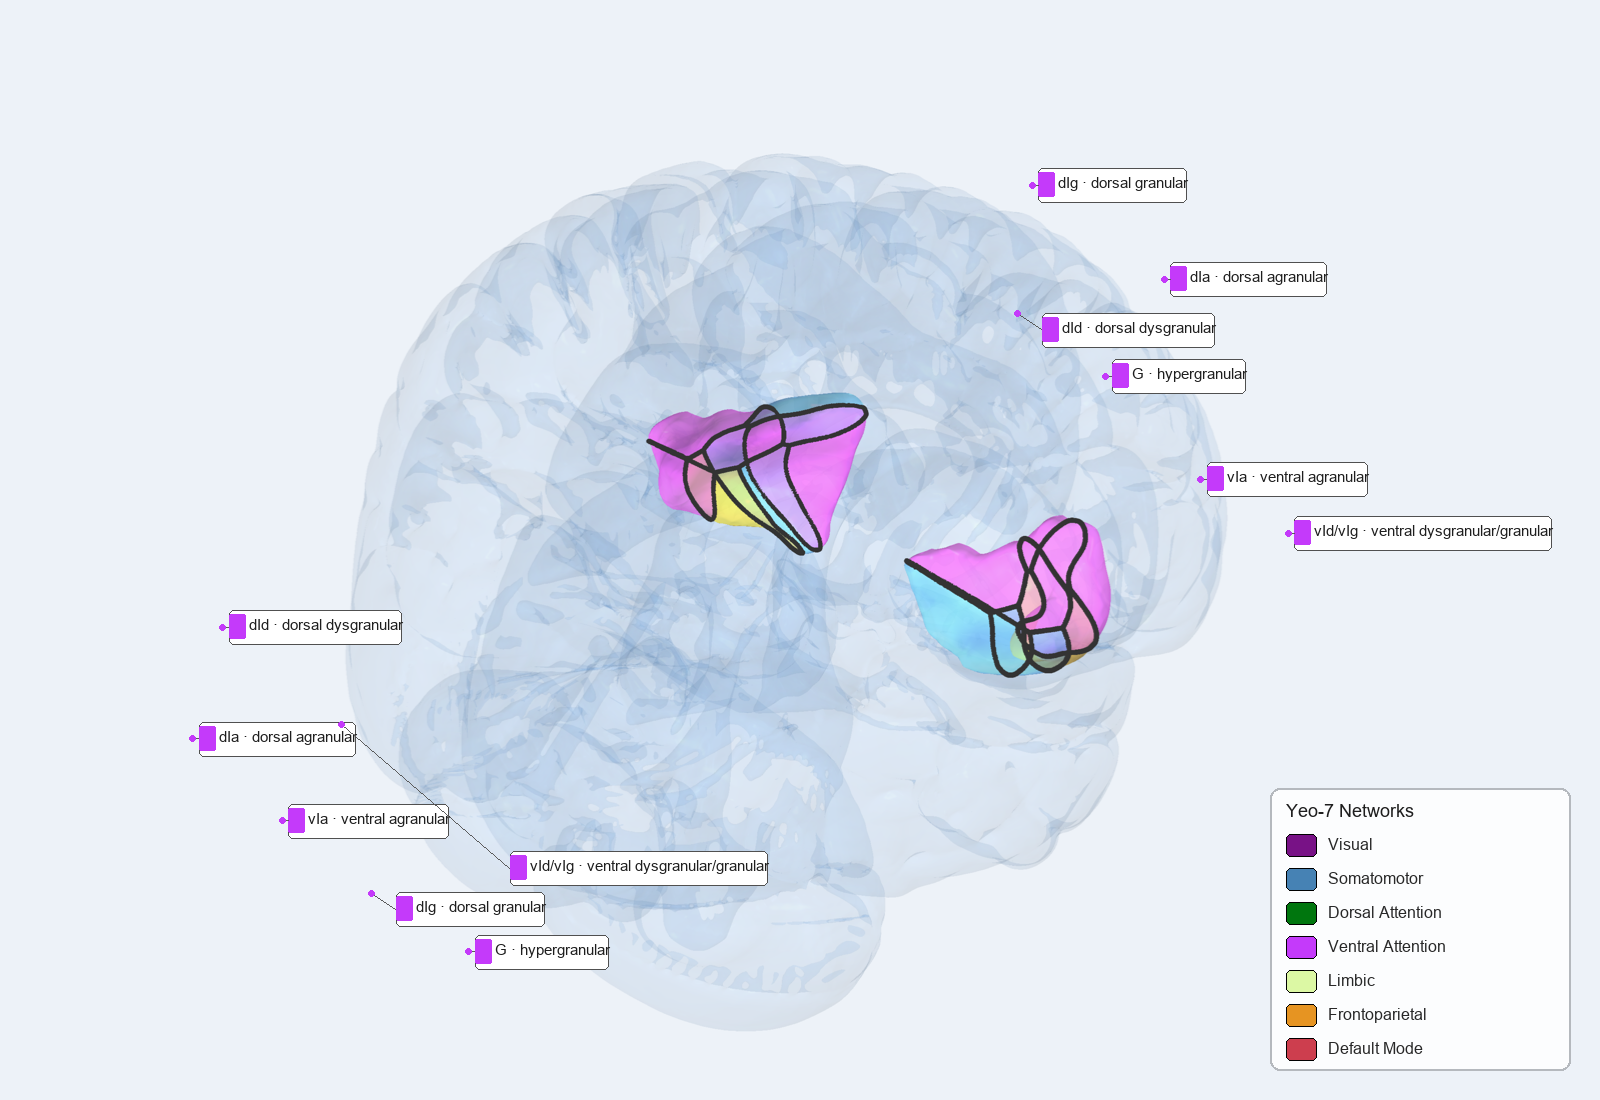
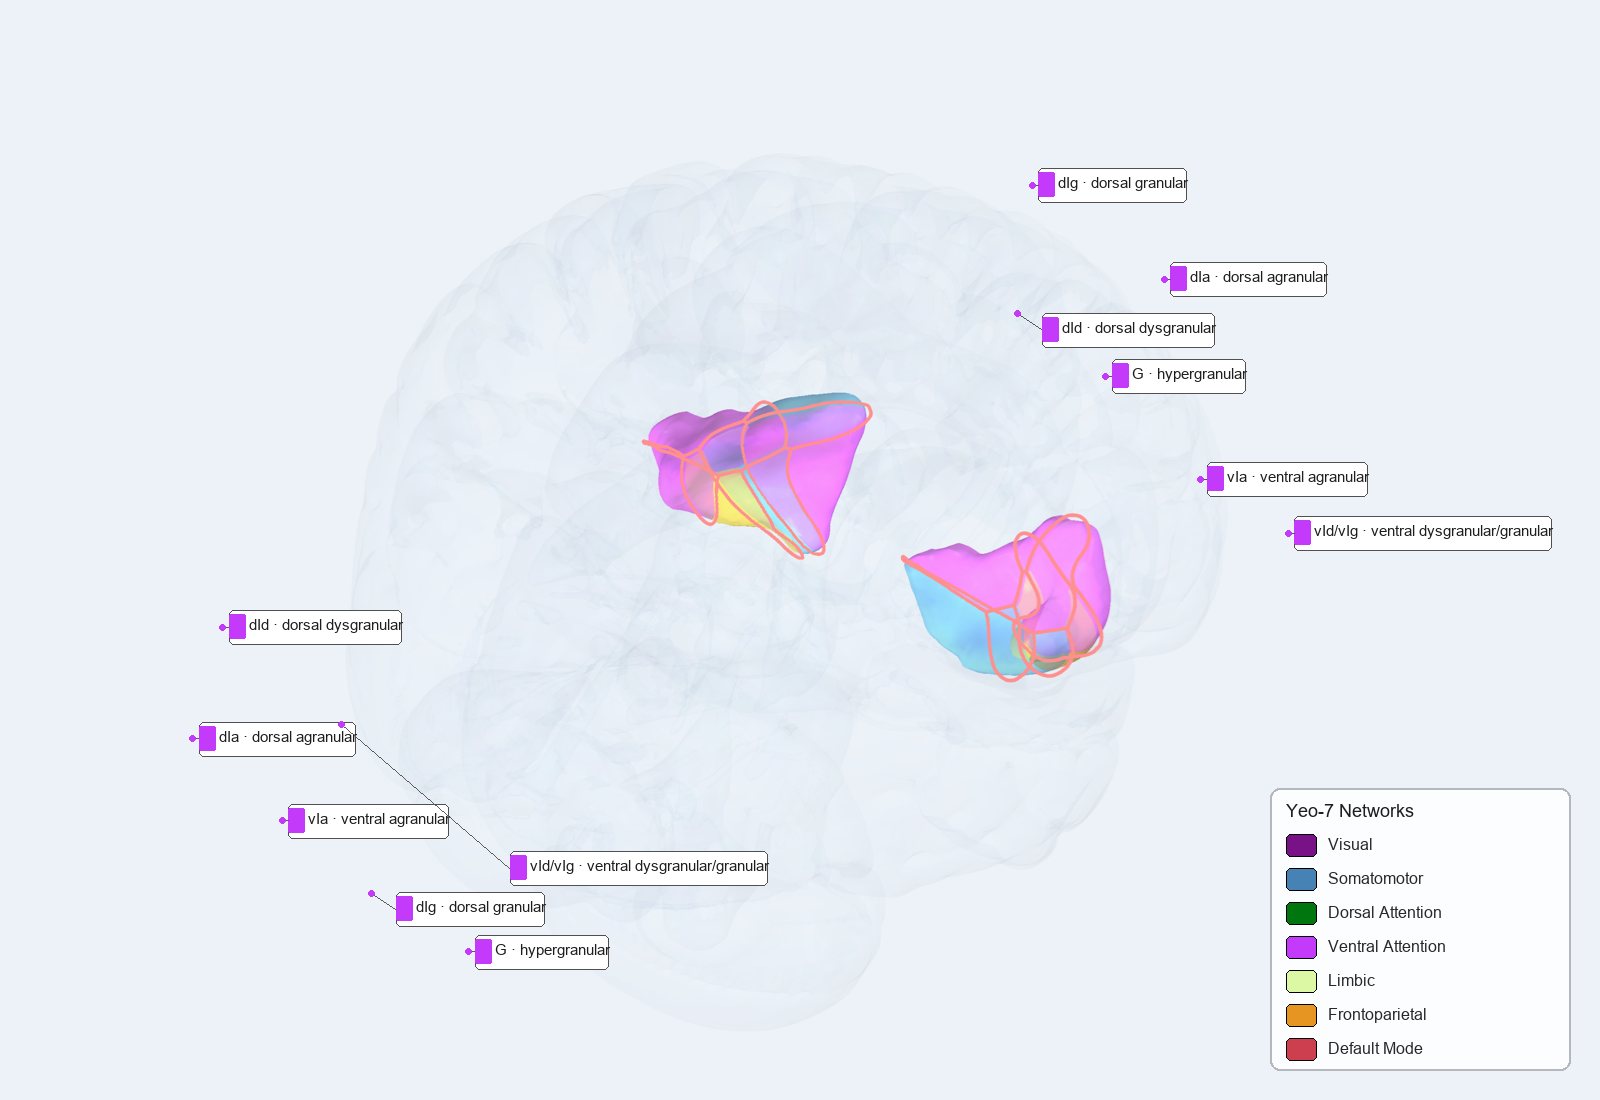
feat(jellybrain): refine pipeline + dashed boundaries + render_region API + full test suite - dashed_boundary_lines: lift along normals so dashed separators visible on jelly surfaces - visualize_subregions: dash_ratio/dash_segments/lift params, default subtle gray dashes - render_region: one-call en

Changed region(s): [[0.2188, 0.1236, 0.7812, 0.8964], [0.6562, 0.7418, 0.6875, 0.7727]]

diff --git a/jellybrain/jellybrain/core.py b/jellybrain/jellybrain/core.py
@@ -169,6 +169,60 @@ def voronoi_boundary_lines(mesh, centers: List[np.ndarray],
     return line_mesh
 
 
+def dashed_boundary_lines(mesh, centers: List[np.ndarray],
+                          names: List[str],
+                          dash_ratio: float = 0.55,
+                          n_segments: int = 5,
+                          lift: float = 0.6) -> "pv.PolyData":
+    """提取亚区分界并生成**虚线** (隔段交替保留), 浅色细线.
+
+    dash_ratio: 每段实线占比; n_segments: 每条边细分段数;
+    lift: 沿法线抬升 (mm), 让虚线浮于半透明亚区表面之上可见.
+    """
+    import pyvista as pv
+    from scipy.spatial import cKDTree
+    tree = cKDTree(np.array(centers))
+    _, vert_label = tree.query(mesh.points)
+    cells = mesh.faces.reshape(-1, 4)[:, 1:4]
+    face_label = np.array([
+        np.bincount(vert_label[c], minlength=len(centers)).argmax()
+        for c in cells])
+
+    # 顶点法线 (抬升用)
+    normals = np.asarray(mesh.compute_normals(cell_normals=False,
+                                              split_vertices=False)
+                         .point_data['Normals'], dtype=float)
+
+    edge_faces: Dict[tuple, list] = {}
+    for ci, fc in enumerate(cells):
+        for a, b in [(fc[0], fc[1]), (fc[1], fc[2]), (fc[2], fc[0])]:
+            key = (min(a, b), max(a, b))
+            edge_faces.setdefault(key, []).append(face_label[ci])
+
+    pts = np.asarray(mesh.points, dtype=float)
+    dash_lines = []
+    for (a, b), labels in edge_faces.items():
+        if len(set(labels)) > 1:
+            pa = pts[a] + normals[a] * lift
+            pb = pts[b] + normals[b] * lift
+            for k in range(n_segments):
+                t0 = k / n_segments
+                t1 = t0 + dash_ratio / n_segments
+                if k % 2 == 0:
+                    dash_lines.append((pa + t0 * (pb - pa),
+                                       pa + t1 * (pb - pa)))
+    if not dash_lines:
+        return pv.PolyData(pts, lines=np.array([2, 0, 1]))
+
+    new_pts = []
+    cells = []
+    for idx, (p0, p1) in enumerate(dash_lines):
+        new_pts.append(p0)
+        new_pts.append(p1)
+        cells.extend([2, idx * 2, idx * 2 + 1])
+    return pv.PolyData(np.array(new_pts), lines=np.array(cells, dtype=np.int64))
+
+
 def region_surface(spec: AtlasSpec, smooth_sigma: float = 1.5,
                    subdivide: int = 4, smooth_iter: int = 60):
     """脑区真实形态表面 (mask -> marching cubes -> 平滑)."""
@@ -203,15 +257,17 @@ def visualize_subregions(
     add_labels: bool = True,
     show_legend: bool = True,
     show_boundaries: bool = True,
-    boundary_color: str = '#333333',
-    boundary_radius: float = 0.5,
+    boundary_color: str = '#909090',   # 浅灰 (虚线分隔)
+    boundary_radius: float = 0.35,     # 细管
+    dash_ratio: float = 0.5,
+    dash_segments: int = 6,
     label_offsets: Optional[Dict[str, np.ndarray]] = None,
-    alpha_brain: float = 0.06,
+    alpha_brain: float = 0.035,        # 极淡玻璃
     alpha_region: float = 0.5,
     return_plotter: bool = False,
     mni152_path: Optional[str] = None,
     camera_zoom: float = 1.35,
-):
+):  # -> bool | "pv.Plotter"  (return_plotter=True 时返回 Plotter)
     """渲染玻璃脑 + 亚区果冻. 返回 None / 保存图片 / 或 plotter (交互)."""
     import pyvista as pv
     from PIL import Image
@@ -236,11 +292,11 @@ def visualize_subregions(
         pl.add_light(pv.Light(position=pos, light_type='camera light',
                               intensity=intens, color=color))
 
-    # ---------------- 玻璃脑 (更清澈, 加菲涅尔感) ----------------
-    pl.add_mesh(brain, color='#5A8FC7', opacity=alpha_brain,
-                smooth_shading=True, diffuse=0.6, ambient=0.35,
-                specular=0.8, specular_power=128, metallic=0.0,
-                roughness=0.1, show_edges=False)
+    # ---------------- 玻璃脑 (极淡, 还原 insula_yeo_iso 简洁感) ----------------
+    pl.add_mesh(brain, color='#B8CBE0', opacity=alpha_brain,
+                smooth_shading=True, diffuse=0.5, ambient=0.55,
+                specular=0.6, specular_power=128, metallic=0.0,
+                roughness=0.2, show_edges=False)
 
     # ---------------- 岛叶亚区 (PBR 果冻) ----------------
     for s in spec.subregions:
@@ -251,23 +307,25 @@ def visualize_subregions(
             rgb = YeoNetwork.RGB[s.yeo7 - 1]
         else:
             rgb = None
-        # 亮度增强 + 饱和度提升 (PBR)
+        # 柔化 (不再过度增亮, 保持原网络色但更通透)
         r, g, b = (rgb if rgb is not None else (0.7, 0.7, 0.7))
-        r = min(1.0, r * 1.25 + 0.05)
-        g = min(1.0, g * 1.25 + 0.05)
-        b = min(1.0, b * 1.25 + 0.05)
+        r = min(1.0, r * 1.1 + 0.06)
+        g = min(1.0, g * 1.1 + 0.06)
+        b = min(1.0, b * 1.1 + 0.06)
         pl.add_mesh(sm, color=(r, g, b), opacity=alpha_region,
-                    smooth_shading=True, specular=1.0, specular_power=128,
-                    roughness=0.1, metallic=0.05, diffuse=0.9, ambient=0.35,
+                    smooth_shading=True, specular=0.8, specular_power=64,
+                    roughness=0.15, metallic=0.0, diffuse=0.9, ambient=0.4,
                     show_edges=False, lighting=True)
 
-    # ---------------- 分区边界线 (深灰 tube, 清晰展示亚区分界) ----------------
+    # ---------------- 分区边界线 (浅灰细虚线, 抬升表面防遮挡) ----------------
     if show_boundaries:
-        bnd = voronoi_boundary_lines(surf, centers, names)
-        bnd = bnd.tube(radius=boundary_radius)  # 实体管, 不被半透明面遮挡
+        bnd = dashed_boundary_lines(surf, centers, names,
+                                    dash_ratio=dash_ratio,
+                                    n_segments=dash_segments, lift=1.0)
+        bnd = bnd.tube(radius=boundary_radius)  # 实体管, 可见
         pl.add_mesh(bnd, color=boundary_color,
-                    smooth_shading=True, lighting=False, pickable=False,
-                    opacity=0.98)
+                    smooth_shading=False, lighting=False, pickable=False,
+                    opacity=1.0)
 
     # ---------------- 地面阴影 ----------------
     try:
@@ -319,6 +377,19 @@ def export_pdf(png_path: str, pdf_path: str):
     img = Image.open(png_path).convert('RGB')
     img.save(pdf_path, 'PDF', resolution=150.0)
     return pdf_path
+
+
+def render_region(atlas: str, region: str = 'insula', output: str = None,
+                  view: str = 'iso', **kwargs):
+    """一键式入口: 指定图谱 + 脑区 -> 渲染 (含虚线边界/标签/图例默认开启).
+
+    等价于 get_spec(atlas, region) 后调用 visualize_subregions.
+    """
+    from . import atlases
+    spec = atlases.get_spec(atlas, region)
+    if output is None:
+        output = f'{atlas}_{region}_{view}.png'
+    return visualize_subregions(spec, output=output, view=view, **kwargs)
 
 
 def pil_subregion_labels(img_path: str, doc: 'AtlasSpec',

diff --git a/jellybrain/tests/test_jellybrain.py b/jellybrain/tests/test_jellybrain.py
@@ -1,40 +1,117 @@
 # -*- coding: utf-8 -*-
-"""jellybrain 冒烟测试: 确认库可导入、规格正确、渲染管线基本工作."""
+"""jellybrain 测试套件: 覆盖 规格/渲染管线/虚线/分区/导出."""
 import os
-import tempfile
+import sys
+
+sys.path.insert(0, os.path.join(os.path.dirname(__file__), '..', '..'))
 
 
+# ---------------------------------------------------------------- 规格
 def test_spec():
     from jellybrain import atlases
     spec = atlases.get_spec('brainnetome', 'insula')
     assert spec.atlas_name == 'brainnetome'
     assert spec.region_name == 'insula'
     assert len(spec.subregions) == 12
-    # 左右对称: 6 左 + 6 右
+    assert all(isinstance(s.yeo7, int) and 1 <= s.yeo7 <= 7
+               for s in spec.subregions)
+    # 唯一名 (左右各 6)
     names = [s.name for s in spec.subregions]
-    assert all(s.yeo7 in range(1, 8) for s in spec.subregions)
-    print('OK spec:', len(spec.subregions), 'subregions')
+    assert len(set(names)) == 12
+    # 已知官方映射: Ins_L_1 = Somatomotor(2), Ins_L_2 = Frontoparietal(6)
+    m = {s.name: s.yeo7 for s in spec.subregions}
+    assert m['Ins_L_1'] == 2
+    assert m['Ins_L_2'] == 6
+    assert m['Ins_L_3'] == 4
+    print('OK test_spec')
 
 
-def test_render_pipeline(tmp_path=None):
-    """仅验证管线能跑通 (玻璃脑 + 形态 + 划分 + 截图)."""
+# ---------------------------------------------------------------- 玻璃脑
+def test_glass_brain():
+    from jellybrain.core import make_glass_brain
+    b = make_glass_brain()
+    assert b.n_points > 100000
+    assert b.n_cells > 200000
+    print('OK test_glass_brain', b.n_points)
+
+
+# ---------------------------------------------------------------- 形态+分区
+def test_region_and_voronoi():
     from jellybrain import atlases
-    from jellybrain.core import (region_surface, voronoi_partition,
-                                 make_glass_brain)
+    from jellybrain.core import (region_surface, voronoi_partition)
     spec = atlases.get_spec('brainnetome', 'insula')
-    brain = make_glass_brain()
-    assert brain.n_points > 1000
     surf = region_surface(spec)
-    assert surf.n_points > 500
+    assert surf.n_points > 50000
     sub = voronoi_partition(
         surf, [s.mni_center for s in spec.subregions],
         [s.name for s in spec.subregions])
     assert len(sub) == 12
-    print('OK pipeline: brain', brain.n_points, 'surf', surf.n_points,
-          'sub', len(sub))
+    for k, m in sub.items():
+        assert m.n_cells > 0
+    print('OK test_region_and_voronoi', surf.n_points, len(sub))
+
+
+# ---------------------------------------------------------------- 虚线
+def test_dashed_boundary():
+    from jellybrain import atlases
+    from jellybrain.core import (region_surface, dashed_boundary_lines)
+    spec = atlases.get_spec('brainnetome', 'insula')
+    surf = region_surface(spec)
+    centers = [s.mni_center for s in spec.subregions]
+    names = [s.name for s in spec.subregions]
+    bnd = dashed_boundary_lines(surf, centers, names,
+                                dash_ratio=0.5, n_segments=6)
+    assert bnd.n_cells > 1000
+    # 虚线段是短线 (每 cell 2 点)
+    assert bnd.n_points == bnd.n_cells * 2
+    print('OK test_dashed_boundary', bnd.n_cells)
+
+
+# ---------------------------------------------------------------- 导出
+def test_exports(tmpdir='.'):
+    from jellybrain import atlases
+    from jellybrain.core import (visualize_subregions, export_pdf)
+    spec = atlases.get_spec('brainnetome', 'insula')
+    png = os.path.join(tmpdir, '_t.png')
+    ok = visualize_subregions(spec, output=png, view='front',
+                              add_labels=False, show_legend=False)
+    assert ok and os.path.exists(png) and os.path.getsize(png) > 50000
+    # PDF
+    pdf = os.path.join(tmpdir, '_t.pdf')
+    export_pdf(png, pdf)
+    assert os.path.exists(pdf) and os.path.getsize(pdf) > 1000
+    # 自定义标签偏移
+    png2 = os.path.join(tmpdir, '_t2.png')
+    visualize_subregions(spec, output=png2, view='iso',
+                         label_offsets={'Ins_L_1': (50, 50)})
+    assert os.path.exists(png2)
+    os.remove(png); os.remove(png2)
+    try:
+        os.remove(pdf)
+    except Exception:
+        pass
+    print('OK test_exports')
+
+
+# ---------------------------------------------------------------- HTML
+def test_html_export():
+    from jellybrain import atlases
+    from jellybrain.core import visualize_subregions
+    spec = atlases.get_spec('brainnetome', 'insula')
+    html = os.path.join(os.path.dirname(__file__), '_t.html')
+    pl = visualize_subregions(spec, return_plotter=True, add_labels=False)
+    pl.export_html(html)
+    pl.close()
+    assert os.path.exists(html) and os.path.getsize(html) > 1000000
+    os.remove(html)
+    print('OK test_html_export')
 
 
 if __name__ == '__main__':
     test_spec()
-    test_render_pipeline()
+    test_glass_brain()
+    test_region_and_voronoi()
+    test_dashed_boundary()
+    test_exports()
+    test_html_export()
     print('ALL TESTS PASSED')

diff --git a/jellybrain/examples/demo.py b/jellybrain/examples/demo.py
@@ -1,14 +1,24 @@
 # -*- coding: utf-8 -*-
-"""jellybrain 示例: 指定图谱即可可视化脑区亚区.
+"""jellybrain 完整示例: 指定图谱即可可视化脑区亚区.
 
-  1) 内置图谱: atlases.get_spec('brainnetome', 'insula')
-  2) 渲染:  visualize_subregions(spec, output=..., view=...)
+功能覆盖:
+  1) 图谱规格 (atlases.get_spec)
+  2) 静态渲染 (三视角, 虚线边界 + 标签 + 图例)
+  3) 交互式 HTML (trame, 可旋转 + 截图)
+  4) PDF 导出
+  5) 自定义标签位置 (label_offsets)
 """
-import io, os, sys
+import os
+import sys
+
 sys.path.insert(0, os.path.join(os.path.dirname(__file__), '..'))
 
 from jellybrain import atlases
-from jellybrain.core import visualize_subregions
+from jellybrain.core import (visualize_subregions, export_pdf)
+
+ROOT = os.path.normpath(os.path.join(os.path.dirname(__file__), '..', '..'))
+IMG = os.path.join(ROOT, 'images')
+os.makedirs(IMG, exist_ok=True)
 
 # 1. 取图谱规格 (指定图谱 + 脑区)
 spec = atlases.get_spec('brainnetome', 'insula')
@@ -17,16 +27,39 @@ print('图谱:', spec.atlas_name, '| 脑区:', spec.region_name,
 for s in spec.subregions[:4]:
     print('  -', s.name, '|', s.full_name, '| Yeo7 =', s.yeo7)
 
-# 2. 静态渲染: 三视角
-root = os.path.normpath(os.path.join(os.path.dirname(__file__), '..', '..', 'images'))
-os.makedirs(root, exist_ok=True)
+# 2. 静态渲染: 三视角 (虚线边界 + iso 带标签图例)
 for view in ['iso', 'front', 'top']:
-    out = os.path.join(root, f'lib_{view}.png')
+    out = os.path.join(IMG, f'lib_{view}.png')
     visualize_subregions(spec, output=out, view=view,
-                         add_labels=(view == 'iso'), show_legend=True)
-    print('saved:', out)
+                         add_labels=(view == 'iso'), show_legend=True,
+                         show_boundaries=True)
+    print('PNG   ->', out)
 
-# 3. 交互式 (Jupyter 里打开 / 导出 HTML)
+# 3. 交互式 HTML (trame viewer, 浏览器打开可旋转/截图)
+out_html = os.path.join(IMG, 'insula_interactive.html')
+pl = visualize_subregions(spec, return_plotter=True,
+                          add_labels=True, show_legend=False,
+                          show_boundaries=True)
+pl.export_html(out_html)
+pl.close()
+print('HTML  ->', out_html)
+
+# 4. PDF 导出
+out_pdf = os.path.join(IMG, 'lib_iso.pdf')
+export_pdf(os.path.join(IMG, 'lib_iso.png'), out_pdf)
+print('PDF   ->', out_pdf)
+
+# 5. 自定义标签位置 (屏幕像素偏移)
+out_custom = os.path.join(IMG, 'lib_iso_custom_labels.png')
+visualize_subregions(spec, output=out_custom, view='iso',
+                     add_labels=True, show_legend=True,
+                     show_boundaries=True,
+                     label_offsets={'Ins_L_1': (-40, 50),
+                                    'Ins_R_3': (50, -40)})
+print('CUSTOM->', out_custom)
+
+# 6. 交互式窗口 (Jupyter 内)
 # pl = visualize_subregions(spec, return_plotter=True)
 # pl.show(jupyter_backend='trame')
-# pl.export_html(os.path.join(root, 'lib_interactive.html'))
+
+print('DONE')

diff --git a/jellybrain/jellybrain/__init__.py b/jellybrain/jellybrain/__init__.py
@@ -9,9 +9,11 @@ from .core import (
     Subregion,
     YeoNetwork,
     visualize_subregions,
+    render_region,
     make_glass_brain,
     voronoi_partition,
     voronoi_boundary_lines,
+    dashed_boundary_lines,
     export_pdf,
 )
 from . import atlases
@@ -19,7 +21,7 @@ from . import atlases
 __version__ = "0.1.0"
 __all__ = [
     "AtlasSpec", "Subregion", "YeoNetwork",
-    "visualize_subregions", "make_glass_brain", "voronoi_partition",
-    "voronoi_boundary_lines", "export_pdf",
-    "atlases",
+    "visualize_subregions", "render_region", "make_glass_brain",
+    "voronoi_partition", "voronoi_boundary_lines", "dashed_boundary_lines",
+    "export_pdf", "atlases",
 ]

diff --git a/jellybrain/README.md b/jellybrain/README.md
@@ -93,7 +93,7 @@ class AtlasSpec:
 1. **玻璃脑**: MNI152 模板 (nilearn 自动获取) → marching cubes → Loop 细分 + 平滑
 2. **脑区形态**: 图谱 ROI mask → 高斯平滑 → marching cubes → 细分 3 次 + 平滑 (真实沟回形态)
 3. **亚区划分**: 亚区 MNI 中心 → **Voronoi 划分** (每块保留真实形态)
-4. **分区边界线**: 相邻亚区共享边提取 → tube 化 → 深灰高对比边界 (清晰展示亚区分界)
+4. **分区边界线**: 相邻亚区共享边提取 → 沿法线抬升 → **浅灰细虚线** (`dashed_boundary_lines`, `show_boundaries=True`)
 5. **材质**: 果冻质感 (半透明 + 高光泽 + 低粗糙度) + **Yeo-7 官方配色**
 6. **标签**: PIL 智能排布 (不重叠 + 引线 + 可自定义 `label_offsets` 屏幕偏移)
 7. **图例**: Yeo-7 七色图例 (PIL 叠加)
